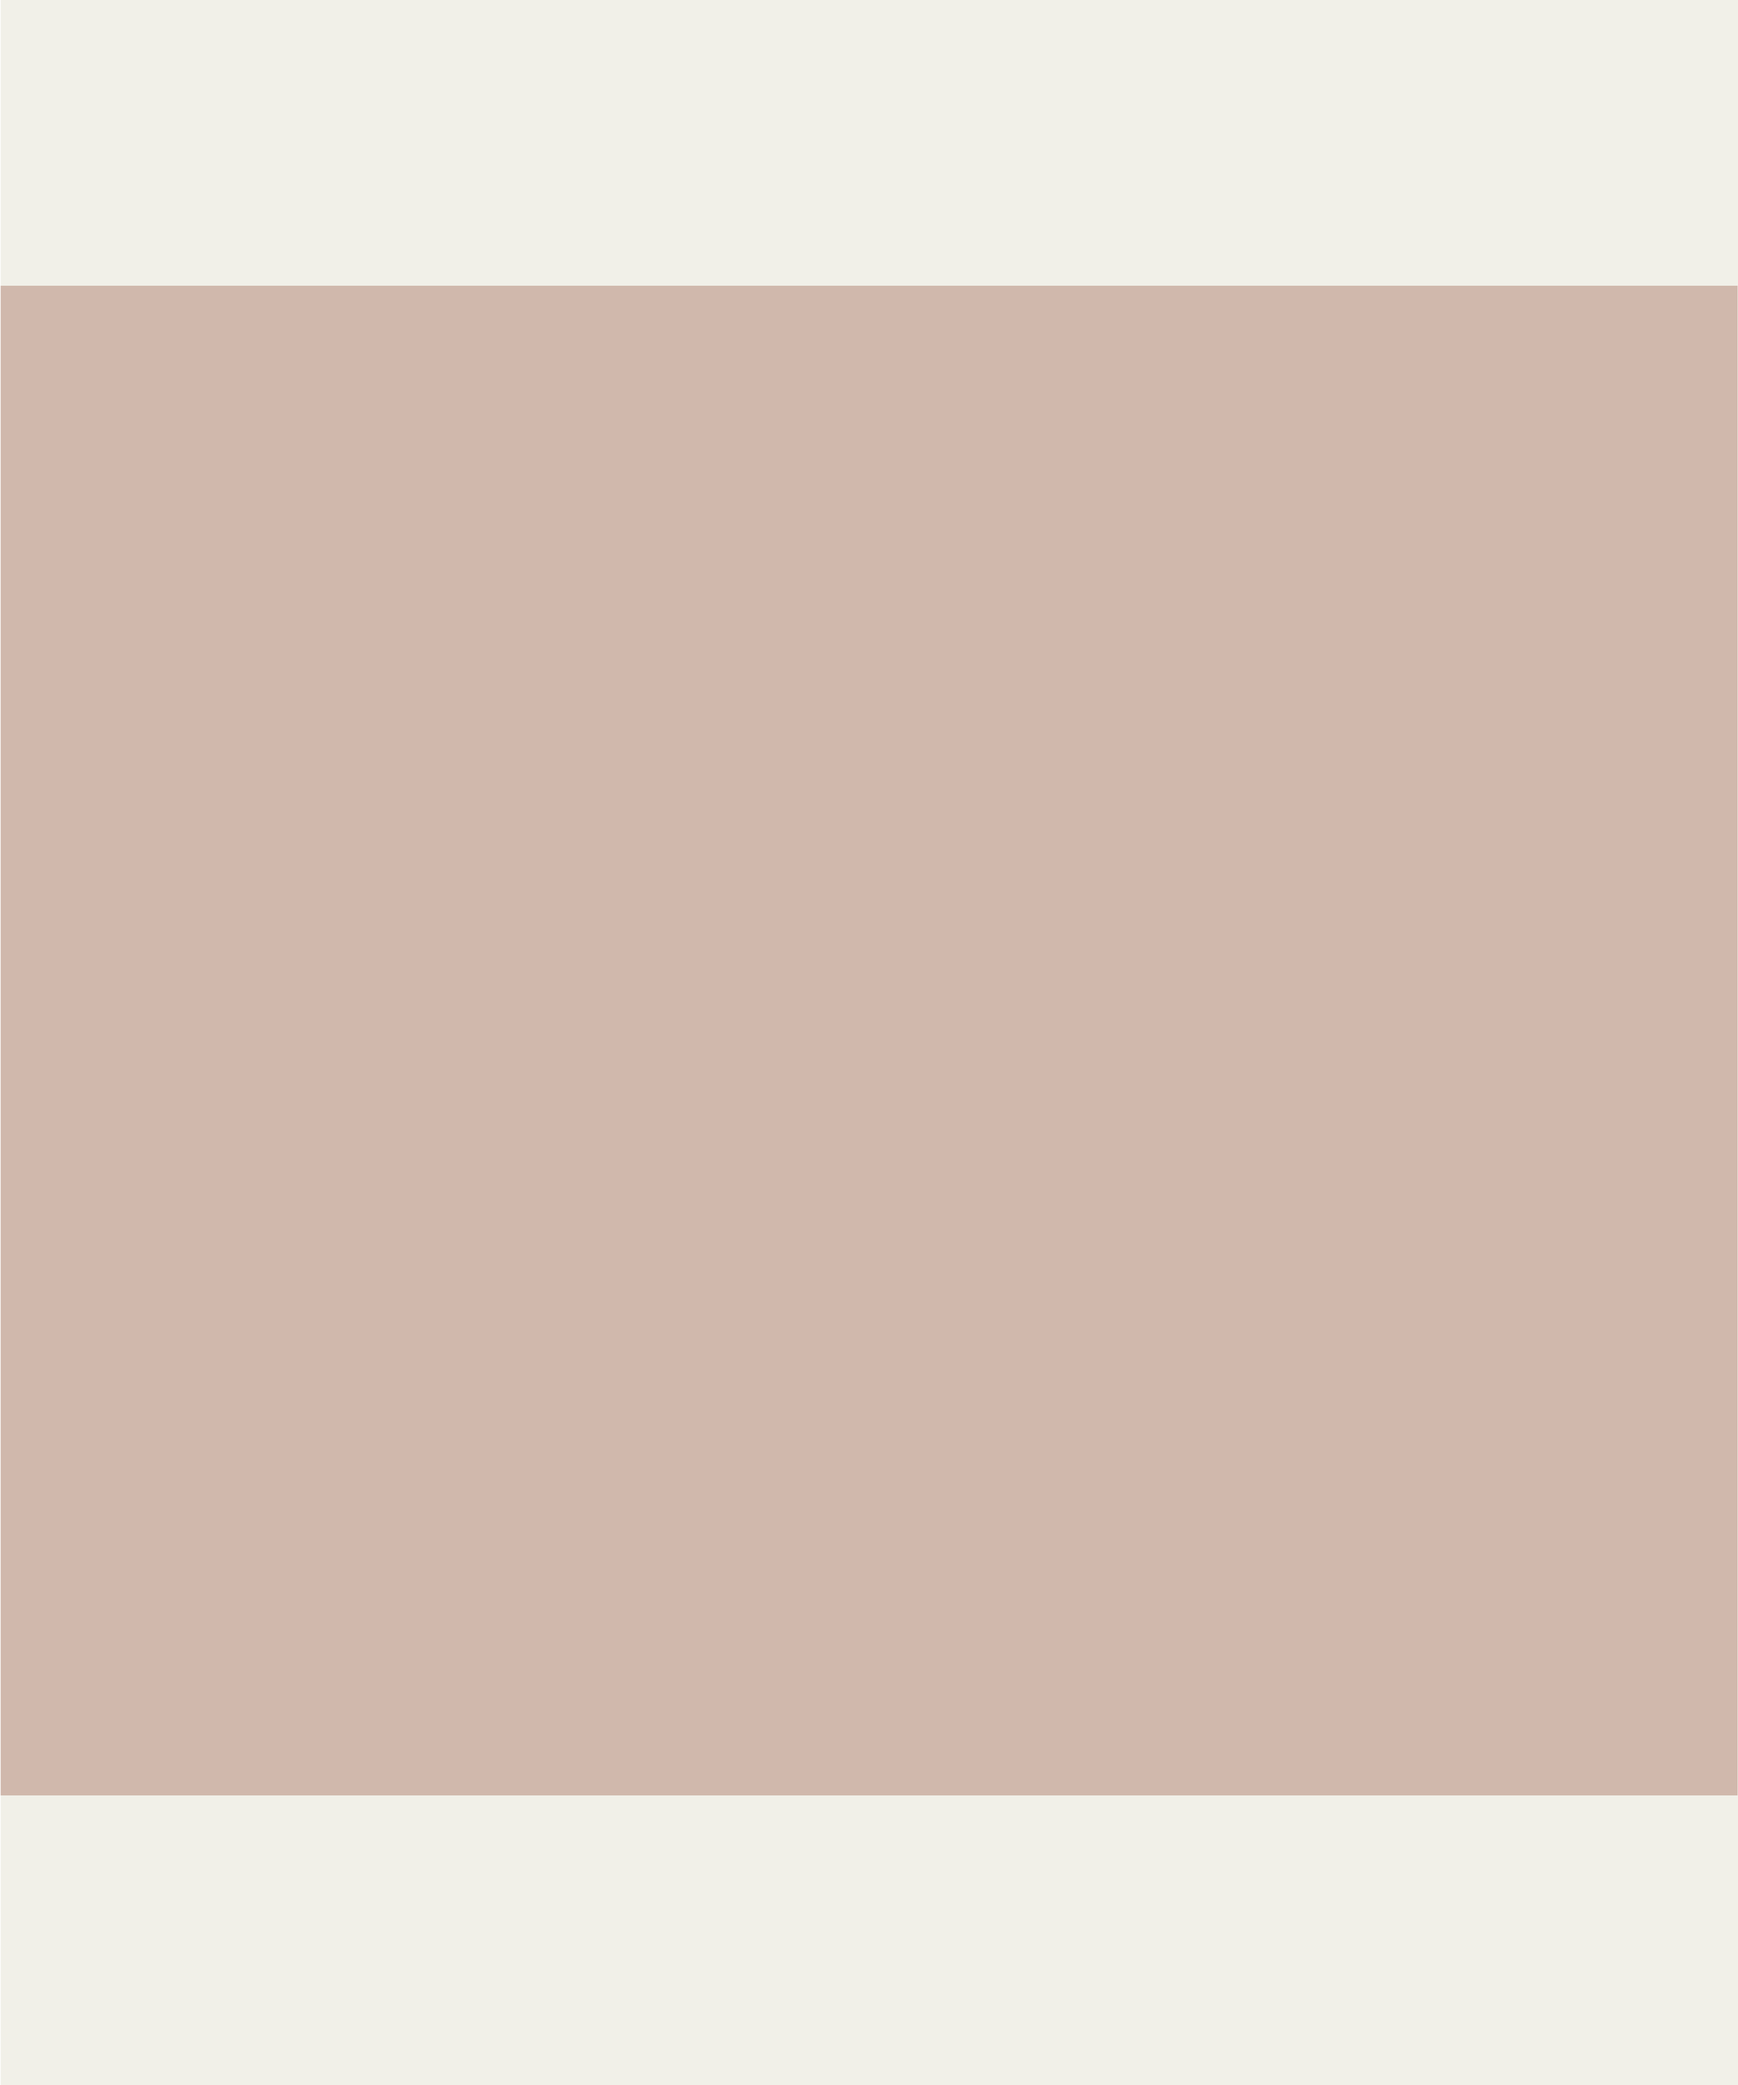
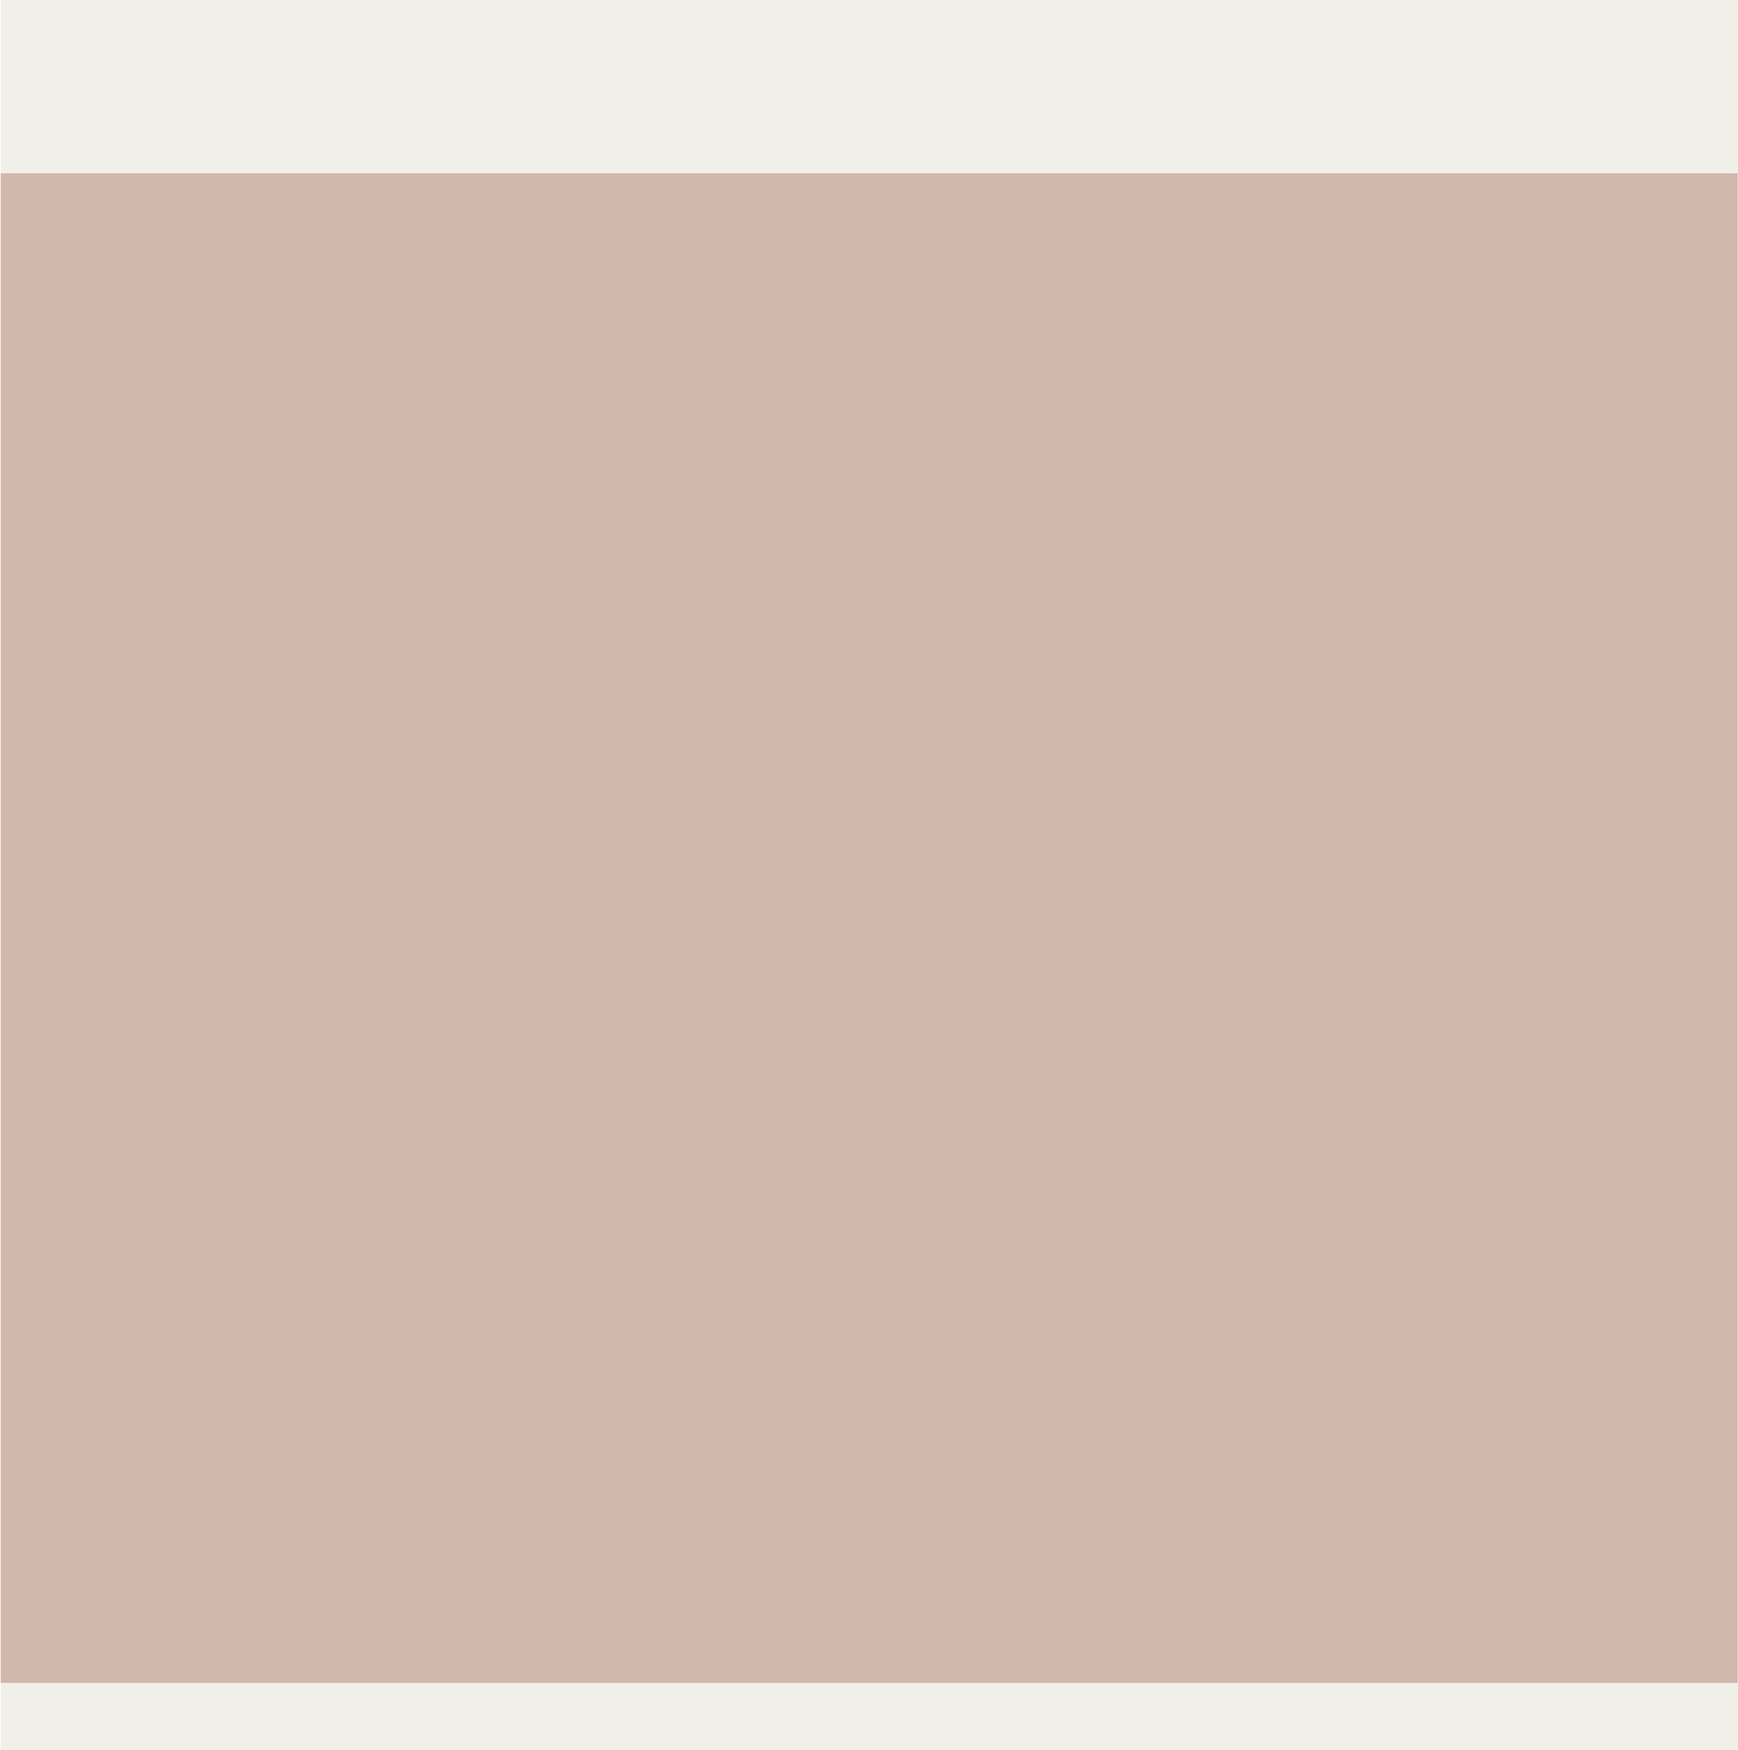
Added exclusions & inclusions, modified backround

Changed region(s): [[0.0, 0.8414, 1.0, 0.9661], [0.0, 0.0935, 1.0, 0.1558]]

diff --git a/src/my components/Party.js b/src/my components/Party.js
@@ -37,6 +37,11 @@ const mobileCardVariant = {
   visible: { y: 0, opacity: 1, transition: { duration: 0.5, ease: "easeOut" } },
   exit: { y: 20, opacity: 0, transition: { duration: 0.3 } }
 };
+const infoEntryVariant = {
+  hidden: { opacity: 0, y: 20 },
+  visible: { opacity: 1, y: 0, transition: { delay: 0.4, duration: 0.5, ease: "easeOut" } },
+  exit: { opacity: 0, y: 20, transition: { duration: 0.3 } }
+};
 
 export default function Party() {
   const [isMobile, setIsMobile] = useState(window.innerWidth < 900);
@@ -64,17 +69,24 @@ export default function Party() {
           
           <motion.div className='ServiceCard' variants={currentCardVariant}>
             <span className='CardTitle'>HD</span>
-            <span className='CardPrice'><span className='ServiceRuppe'>₹</span>8,000</span>
+            <span className='CardPrice'><span className='ServiceRuppe'>₹</span>6,000</span>
             <span className='CardInText'>In Delhi/NCR</span>
-            <span className='CardOutText'>Out of Delhi : <span className='ServiceRuppe'>₹</span>15,000</span>
+            <span className='CardOutText'>Out of Delhi : <span className='ServiceRuppe'>₹</span>10,000</span>
             <Link style={{ textDecoration: 'none', display:'block' }} to='/booking' state={{ service: 'Party', type: 'HD' }}><button className='CardButton'>Book Now</button></Link>
           </motion.div>
-
+          <motion.div className='InfoSection' initial="hidden" animate="visible" exit="exit" variants={infoEntryVariant}>
+          <div className='InfoInner'>
+            <span className='InfoTitle'>PACKAGE INCLUSIONS</span>
+            <span className='InfoContent'>Makeup • Hair Styling • Draping • Regular false eyelash • Nail paint change</span>
+            <span className='InfoExclusion'>EXCLUSIONS : Fresh Flowers / Gajra • Hair Exstension • Hair Asccesories</span>
+          </div>
+          <span className='InfoDisclaimer'>* For out of Delhi bookings, Travel & Accommodation charges are not included.</span>
+          </motion.div>
           <motion.div className='ServiceCard' variants={currentCardVariant}>
             <span className='CardTitle'>Air Brush</span>
-            <span className='CardPrice'><span className='ServiceRuppe'>₹</span>14,000</span>
+            <span className='CardPrice'><span className='ServiceRuppe'>₹</span>10,000</span>
             <span className='CardInText'>In Delhi/NCR</span>
-            <span className='CardOutText'>Out of Delhi : <span className='ServiceRuppe'>₹</span>20,000</span>
+            <span className='CardOutText'>Out of Delhi : <span className='ServiceRuppe'>₹</span>15,000</span>
             <Link style={{ textDecoration: 'none', display:'block' }} to='/booking' state={{ service: 'Party', type: 'Air Brush' }}><button className='CardButton'>Book Now</button></Link>
           </motion.div>
 

diff --git a/src/my components/Bridal.js b/src/my components/Bridal.js
@@ -38,6 +38,12 @@ const mobileCardVariant = {
   exit: { y: 20, opacity: 0, transition: { duration: 0.3 } }
 };
 
+const infoEntryVariant = {
+  hidden: { opacity: 0, y: 20 },
+  visible: { opacity: 1, y: 0, transition: { delay: 0.4, duration: 0.5, ease: "easeOut" } },
+  exit: { opacity: 0, y: 20, transition: { duration: 0.3 } }
+};
+
 export default function Bridal() {
   const [isMobile, setIsMobile] = useState(window.innerWidth < 900);
 
@@ -59,9 +65,7 @@ export default function Bridal() {
           <motion.span className='ServiceTitle' initial="hidden" animate="visible" exit="exit" variants={titleEntryVariant}>Bridal</motion.span>
           <motion.div className='ServiceLine' initial="hidden" animate="visible" exit="exit" variants={lineEntryVariant} style={{ originX: 0 }}></motion.div>
         </div>
-
-        <motion.div className='ServicesCardWrapper' initial="hidden" animate="visible" exit="exit" variants={currentContainerVariant} style={{ perspective: '1000px' }}>
-          
+        <motion.div className='ServicesCardWrapper' initial="hidden" animate="visible" exit="exit" variants={currentContainerVariant} style={{ perspective: '1000px' }}>    
           <motion.div className='ServiceCard' variants={currentCardVariant}>
             <span className='CardTitle'>HD</span>
             <span className='CardPrice'><span className='ServiceRuppe'>₹</span>24,000</span>
@@ -69,7 +73,14 @@ export default function Bridal() {
             <span className='CardOutText'>Out of Delhi : <span className='ServiceRuppe'>₹</span>34,000</span>
             <Link style={{ textDecoration: 'none', display:'block' }} to='/booking' state={{ service: 'Bridal', type: 'HD' }}><button className='CardButton'>Book Now</button></Link>
           </motion.div>
-
+          <motion.div className='InfoSection' initial="hidden" animate="visible" exit="exit" variants={infoEntryVariant}>
+          <div className='InfoInner'>
+            <span className='InfoTitle'>PACKAGE INCLUSIONS</span>
+            <span className='InfoContent'>Makeup • Hair Styling • Hair Exstension • Hair Asccesories • Draping • Regular false eyelash • Nail paint change</span>
+            <span className='InfoExclusion'>EXCLUSIONS : Fresh Flowers / Gajra</span>
+          </div>
+          <span className='InfoDisclaimer'>* For out of Delhi bookings, Travel & Accommodation charges are not included.</span>
+          </motion.div>
           <motion.div className='ServiceCard' variants={currentCardVariant}>
             <span className='CardTitle'>Air Brush</span>
             <span className='CardPrice'><span className='ServiceRuppe'>₹</span>34,000</span>
@@ -79,7 +90,6 @@ export default function Bridal() {
           </motion.div>
           
         </motion.div>
-
       </div>
     </div>
   )

diff --git a/src/App.css b/src/App.css
@@ -363,7 +363,7 @@
 .ServicesCardWrapper {
   display: flex;
   justify-content: center;
-  gap: 20rem;          
+  gap: 7rem;          
   width: 100%;
   perspective: 1000px; 
 }
@@ -385,6 +385,9 @@
   justify-content: center;
   font-family: "Crimson Text", serif;
   filter: drop-shadow(.3rem .3rem .25rem rgba(0, 0, 0, 0.5));
+}
+.Services .ServicesCardWrapper{
+  gap: 20rem;
 }
 .CardTitle{
   display: block;
@@ -426,6 +429,46 @@
 }
 .ServiceRuppe{
   font-size: 60%;
+}
+
+.InfoSection {
+  margin: 2rem 0;
+  text-align: center;
+  width: 20rem;
+}
+
+.InfoInner {
+  padding: 2rem 0;
+  border-top: .15rem solid rgba(var(--accent-color));  
+  border-bottom: .15rem solid rgba(var(--accent-color));
+  display: flex;
+  flex-direction: column;
+  align-items: center;
+  gap: 1rem;
+}
+
+.InfoTitle {
+  font-size: 2rem;
+  letter-spacing: .1rem;
+  font-family: "Jaldi", sans-serif;
+  font-weight: bold;
+  color: rgba(var(--text-color));
+}
+
+.InfoContent, .InfoExclusion {
+  font-family: "Crimson Text", serif;
+  font-weight: 600;
+  font-size: 1.2rem;
+}
+
+.InfoDisclaimer {
+  display: block;
+  font-size: 1rem;
+  font-weight: 600;
+  color:  rgba(var(--text-color));;
+  opacity: .8;
+  font-family: "Crimson Text", serif;
+  margin-top: .5rem;
 }
 /* <-------------------------------- BOOKING --------------------------------> */
 
@@ -639,8 +682,11 @@ textarea {
     padding:  0 2rem ;
     text-align: center;
   }
-  .Gallery,.Services, .Bridal,.Party{
-    height: 150vh;
+  .Gallery,.Services{
+    height: 120vh;
+  }
+  .Bridal,.Party{
+    height: 160vh;
   }
   .GalleryMainContainer{
     flex-direction: column;
@@ -665,7 +711,10 @@ textarea {
     flex-direction: column;
     align-items: center;
     gap: 3rem;
-}
+  }
+  .Services .ServicesCardWrapper{
+    gap: 2rem;
+  }
   .ServiceTitleContainer{
     font-size: 5rem
   }
@@ -687,6 +736,22 @@ textarea {
   .CardButton{
     height: 7rem;
     font-size: 3.5rem;
+  }
+  .InfoSection{
+    width: 50rem;
+  }
+  .InfoInner{
+    border-top: .2rem solid rgba(var(--accent-color));  
+  border-bottom: .2rem solid rgba(var(--accent-color));
+  }
+  .InfoTitle{
+    font-size: 4rem
+  }
+  .InfoContent, .InfoExclusion{
+    font-size: 2.4rem;
+  }
+  .InfoDisclaimer{
+    font-size: 2rem;
   }
   .MainBookingContainer{
     margin-bottom: 10rem;

diff --git a/src/my components/Home.js b/src/my components/Home.js
@@ -77,7 +77,7 @@ export default function Home() {
                         <span className="SocialText">GET IN TOUCH</span>
                         <div className="socials">
                             <a target="_blank" rel="noreferrer" href="https://www.instagram.com/cheenamakeover" className="social"><img src={require('./Images/instagram.png')} alt="Instagram"/></a>
-                            <a target="_blank" rel="noreferrer" href="https://maps.app.goo.gl/Fn3aXsykihVcFvyM7" className="social"><img src={require('./Images/map.png')} alt="Facebook"/></a>
+                            <a target="_blank" rel="noreferrer" href="https://maps.app.goo.gl/N7Mn3KWZ4VCD33Q19?g_st=iwb" className="social"><img src={require('./Images/map.png')} alt="Facebook"/></a>
                             <img onClick={handleWhatsapp} className="social" src={require('./Images/whatsapp.png')} alt="WhatsApp"/>
                             <img onClick={handlePhone} className="social" src={require('./Images/mobile.png')} alt="Phone"/>
                         </div>
